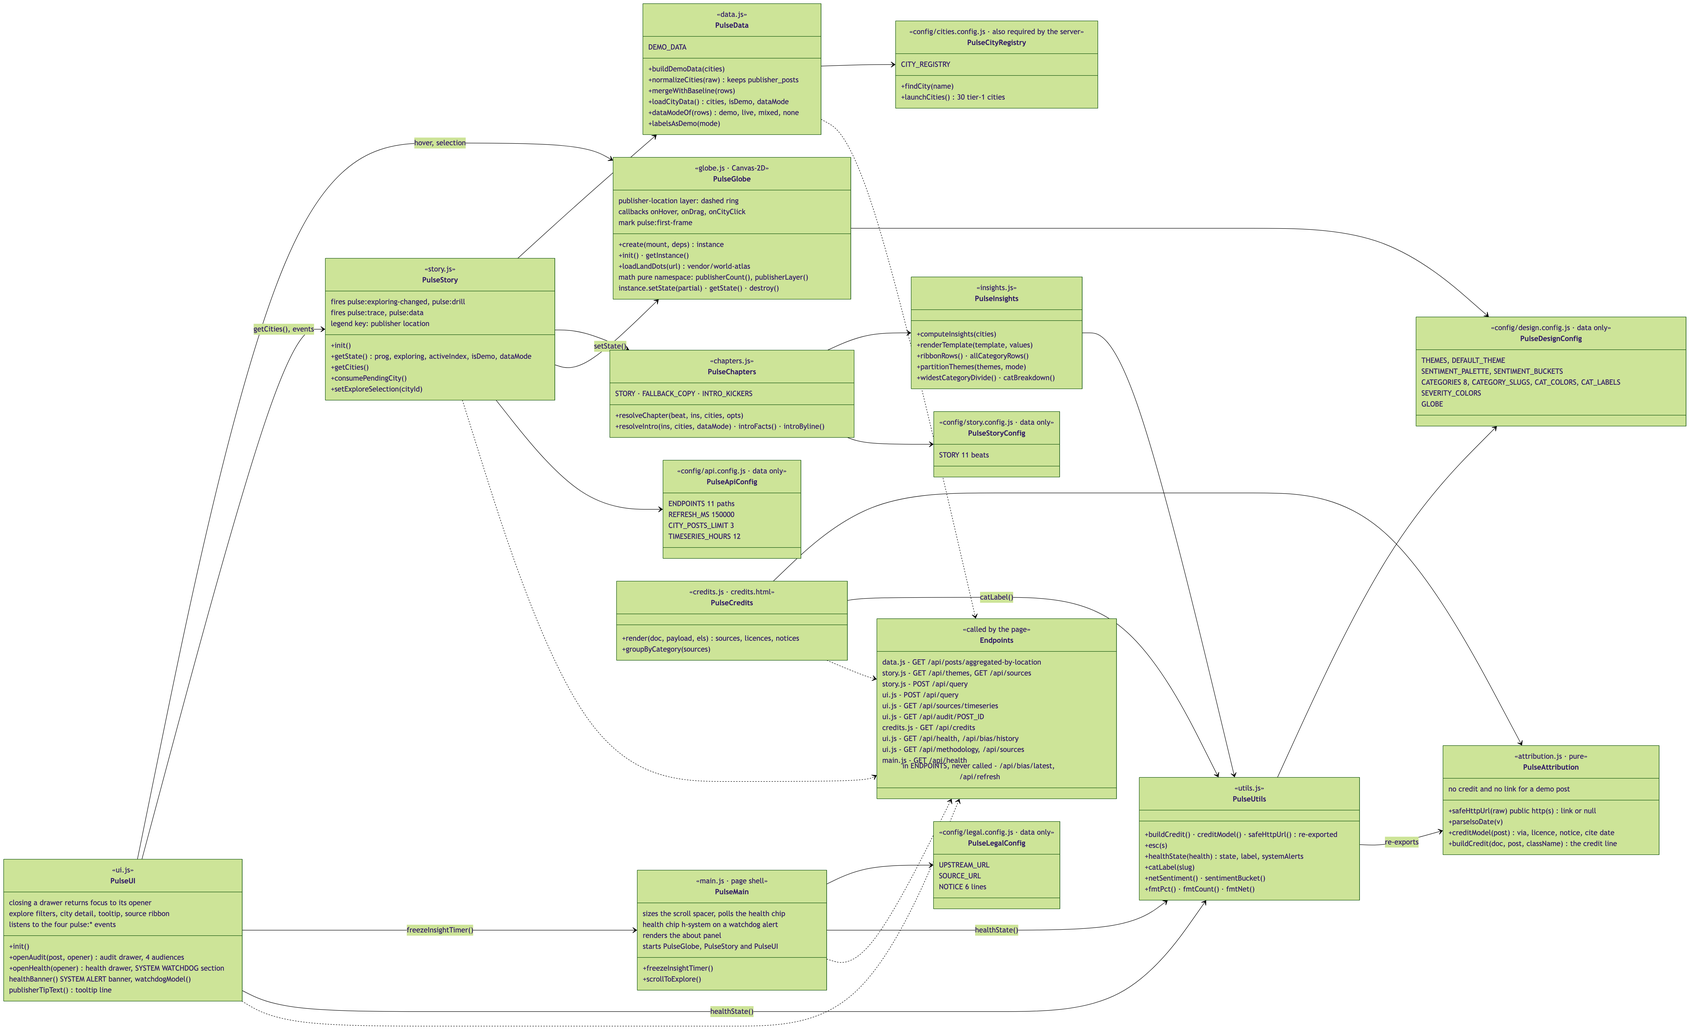
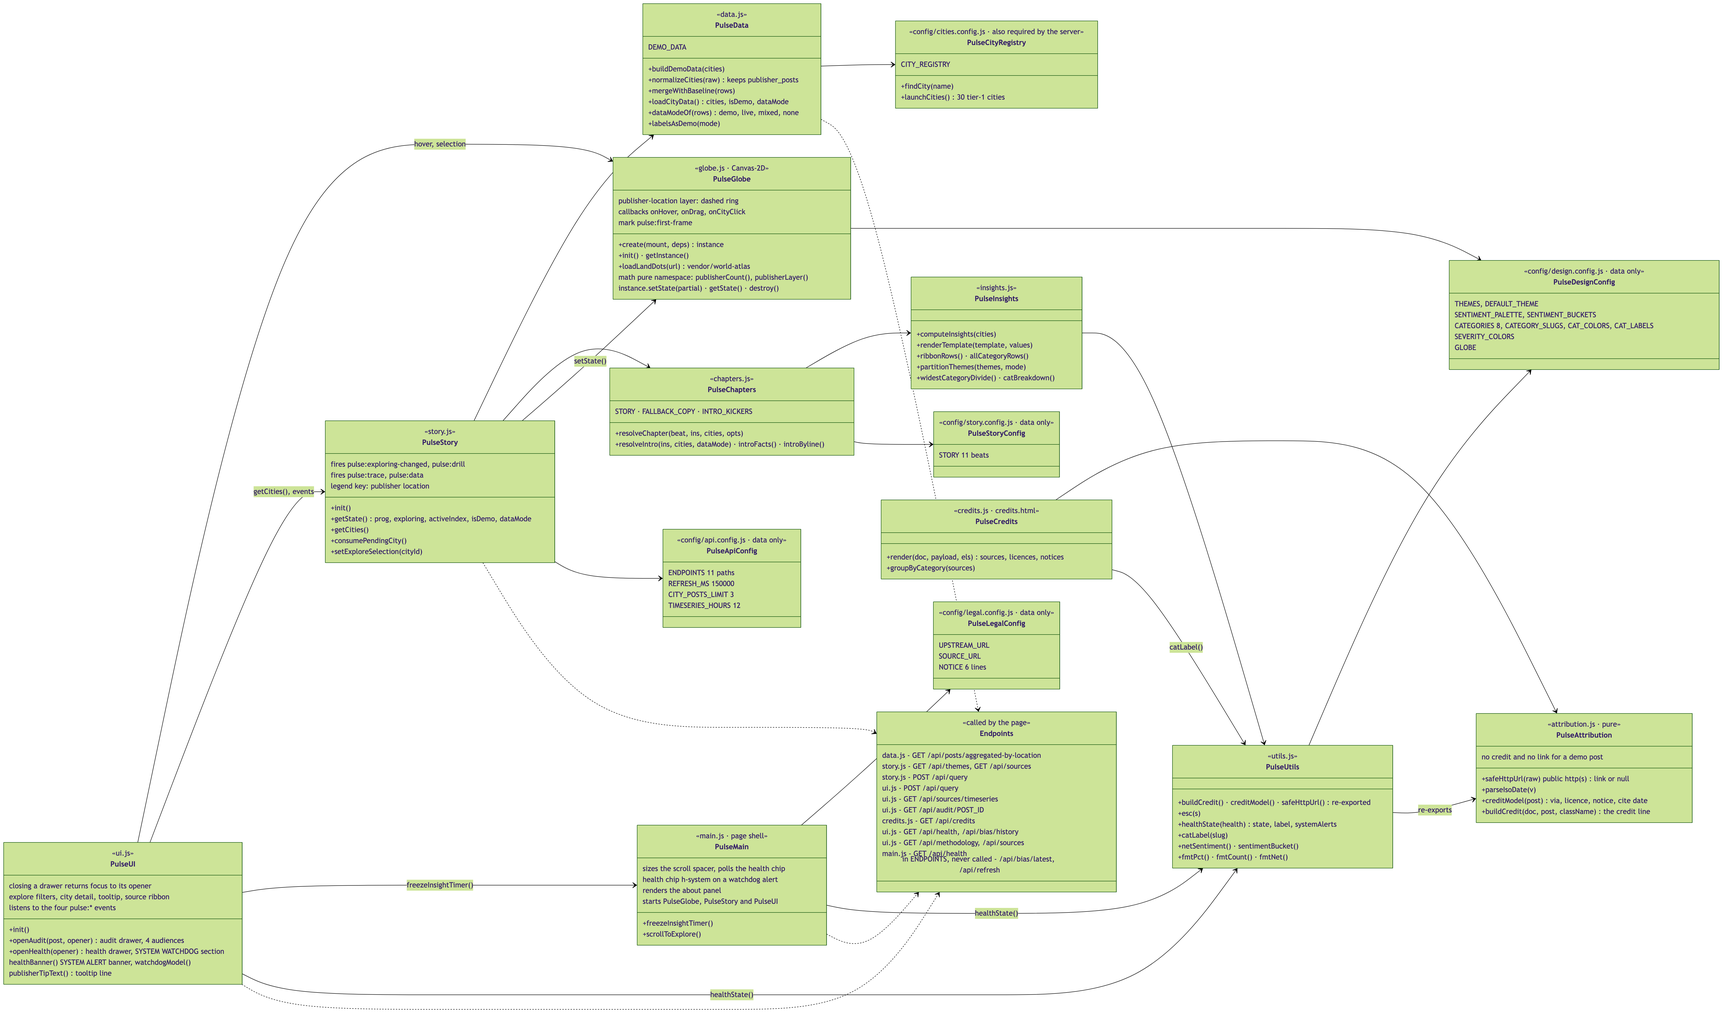
Fix the merge review findings: About panel under the wrapped header, drawer and observer edge cases, terms link validation, three static source links documented, stale doc statements

diff --git a/tests/e2e/attribution.spec.ts b/tests/e2e/attribution.spec.ts
@@ -175,13 +175,26 @@ test.describe('phone width (375px)', () => {
     test('header chips all fit; the health drawer is still reachable', async ({ page }) => {
         const errors = consoleErrors(page);
         await gotoAndWaitForData(page);
-        for (const sel of ['#credits-link', '#health-chip', '#insight-chip']) {
+        for (const sel of ['#credits-link', '#health-chip', '#insight-chip', '#about-chip']) {
             const box = await page.locator(sel).boundingBox();
             expect(box, sel + ' is rendered').not.toBeNull();
             expect(box!.x, sel + ' starts on screen').toBeGreaterThanOrEqual(0);
             expect(box!.x + box!.width, sel + ' ends on screen').toBeLessThanOrEqual(375);
         }
         await evidence(page, '23-attribution-mobile-header');
+        // the About panel opens BELOW the wrapped header: it must not cover
+        // its own chip or the health chip (a pointer user could not close it)
+        await page.locator('#about-chip').click();
+        await expect(page.locator('#about-panel')).toBeVisible();
+        const panel = await page.locator('#about-panel').boundingBox();
+        for (const sel of ['#about-chip', '#health-chip', '#credits-link']) {
+            const b = await page.locator(sel).boundingBox();
+            expect(panel!.y, sel + ' stays above the About panel').toBeGreaterThanOrEqual(b!.y + b!.height);
+        }
+        expect(panel!.x).toBeGreaterThanOrEqual(0);
+        expect(panel!.x + panel!.width).toBeLessThanOrEqual(375);
+        await page.locator('#about-chip').click();
+        await expect(page.locator('#about-panel')).toBeHidden();
         await page.locator('#health-chip').click();
         await expect(page.locator('#health-drawer')).toHaveClass(/open/);
         await page.locator('#health-drawer .drawer-x').click();

diff --git a/public/js/main.js b/public/js/main.js
@@ -228,8 +228,12 @@
             setOpen(false);
             if (returnFocus) chip.focus();
         };
+        // A drawer (z-index 50) covers the panel (30): opening the panel
+        // behind an open drawer would set aria-expanded on something nobody
+        // can see, so the chip does nothing while a drawer is open.
+        const drawerOpen = () => !!document.querySelector('#audit-drawer.open, #health-drawer.open');
         chip.addEventListener('click', () => {
-            if (panel.hidden) setOpen(true);
+            if (panel.hidden) { if (!drawerOpen()) setOpen(true); }
             else close();
         });
         document.addEventListener('keydown', (e) => {
@@ -257,13 +261,17 @@
             }
         };
         if (typeof MutationObserver !== 'undefined') {
+            // Only a drawer GAINING `open` folds the panel: another class
+            // change on an already-open drawer must not close a panel the
+            // user has just opened (attributeOldValue gives the old classes).
             const observer = new MutationObserver((records) => {
-                const opened = records.find((r) => r.target.classList.contains('open'));
+                const opened = records.find((r) => r.target.classList.contains('open')
+                    && !String(r.oldValue || '').split(/\s+/).includes('open'));
                 if (opened) foldAway(opened.target);
             });
             ['audit-drawer', 'health-drawer'].forEach((id) => {
                 const d = document.getElementById(id);
-                if (d) observer.observe(d, { attributes: true, attributeFilter: ['class'] });
+                if (d) observer.observe(d, { attributes: true, attributeFilter: ['class'], attributeOldValue: true });
             });
         }
     }

diff --git a/public/js/ui.js b/public/js/ui.js
@@ -737,8 +737,9 @@
                     status: r.status,
                     statusLabel: sourceStatusLabel(r),
                     online: r.online === true,
-                    termsUrl: r.status !== 'collecting' && typeof r.terms_url === 'string'
-                        && /^https:\/\//.test(r.terms_url) ? r.terms_url : null,
+                    // K1 review: the shared link validator (no credentials, no
+                    // private or IP hosts, no control characters), https only
+                    termsUrl: r.status !== 'collecting' ? httpsOnly(utils.safeHttpUrl(r.terms_url)) : null,
                     reason: r.status_reason || '',
                 })),
         })).filter((g) => g.sources.length > 0);
@@ -1222,6 +1223,11 @@
         if (className) node.className = className;
         if (text !== undefined && text !== null) node.textContent = text;
         return node;
+    }
+
+    // httpsOnly: the URL when it is https, else null (a safeHttpUrl result or null).
+    function httpsOnly(url) {
+        return typeof url === 'string' && url.startsWith('https://') ? url : null;
     }
 
     // appendCredit (K1): the credit line + link back under an excerpt;

diff --git a/tests/unit/pure/legalNotice.test.js b/tests/unit/pure/legalNotice.test.js
@@ -110,12 +110,20 @@ describe('index.html — mount points, script order, no-JS copy', () => {
     });
 });
 
+describe('index.html <noscript> parity (K1 review)', () => {
+    test('the no-JS copy carries every notice text', () => {
+        const html = read('public/index.html');
+        const noscript = html.slice(html.indexOf('<noscript>'), html.indexOf('</noscript>'));
+        for (const n of legal.NOTICE) expect(noscript).toContain(n.text);
+    });
+});
+
 describe('credits.html — the same notices as static markup (K1)', () => {
     // The credits page is a second page of the UI, so it carries the
     // Appropriate Legal Notices too; it is static (no config load) so it shows
     // without JavaScript. Kept equal to the config like the About panel.
     const html = read('public/credits.html');
-    const foot = html.slice(html.indexOf('<footer class="credits-legal"'), html.indexOf('</footer>'));
+    const foot = html.slice(html.indexOf('<section class="credits-legal"'), html.lastIndexOf('</section>'));
 
     test('repeats every notice line and link, once each', () => {
         for (const n of legal.NOTICE) {

diff --git a/tests/unit/pure/ui.test.js b/tests/unit/pure/ui.test.js
@@ -650,6 +650,12 @@ describe('healthBanner / sourcesStat / methodologyModel', () => {
         expect(groups[1].sources.map(s => s.name)).toEqual(['Stack Overflow', 'Hacker News']);
         expect(groups[0].sources[0]).toMatchObject({ statusLabel: 'blocked: no compliant access', termsUrl: 'https://weixin.qq.com/agreement' });
         expect(groups[0].sources[1].termsUrl).toBeNull();      // non-https never linked
+        // K1 review: the shared validator also refuses credentials and private hosts
+        const odd = P.sourceListModel([
+            { registry: true, category: 'social', rank: 1, display_name: 'A', status: 'blocked', terms_url: 'https://u:p@example.com/t' },
+            { registry: true, category: 'social', rank: 2, display_name: 'B', status: 'blocked', terms_url: 'https://localhost/t' },
+        ]);
+        expect(odd[0].sources.map(s => s.termsUrl)).toEqual([null, null]);
         expect(groups[1].sources[1].termsUrl).toBeNull();      // collecting: no citation needed
     });
     test('methodologyModel: latest row per component, model@version keys', () => {

diff --git a/public/credits.html b/public/credits.html
@@ -30,7 +30,7 @@
        legalNotice.test.js keeps this copy equal to it). They are about Pulse of
        AI, not about the third-party sources credited above. Static markup, so
        they show without JavaScript. -->
-  <footer class="credits-legal" aria-labelledby="credits-legal-h">
+  <section class="credits-legal" aria-labelledby="credits-legal-h">
     <h2 id="credits-legal-h" class="credits-h">About this software</h2>
     <ul class="credits-legal-list mono">
       <li data-notice="copyright">Copyright © 2026 Jennifer McKinney</li>
@@ -40,7 +40,7 @@
       <li data-notice="source"><a href="https://github.com/jennifer-mckinney/pulse-of-ai" rel="noopener noreferrer">Source code</a></li>
       <li data-notice="warranty">No warranty: provided "as is", without warranty of any kind (AGPL sections 15 and 16).</li>
     </ul>
-  </footer>
+  </section>
 </main>
 <script defer src="js/config/design.config.js"></script>
 <script defer src="js/attribution.js"></script>

diff --git a/public/js/config/legal.config.js b/public/js/config/legal.config.js
@@ -5,8 +5,9 @@
 // the upstream repository, must be preserved in the Appropriate Legal
 // Notices of any covered work, including a user interface reached over a
 // network. main.js renders NOTICE into the header "about" panel
-// (#about-panel) with createElement/textContent only; index.html repeats it
-// as static text inside <noscript>.
+// (#about-panel) with createElement/textContent only; the same lines are
+// repeated as static markup in index.html (the <noscript> block and the
+// About-panel fallback) and in the footer of credits.html.
 //
 // Deployers of a MODIFIED version (AGPL section 13): point SOURCE_URL at
 // the complete corresponding source of the version you run (your fork). The

diff --git a/tests/unit/pure/attributionUi.test.js b/tests/unit/pure/attributionUi.test.js
@@ -163,6 +163,13 @@ describe('creditModel', () => {
 });
 
 describe('buildCredit', () => {
+    test('an http (not encrypted) original says so in its accessible name', () => {
+        const doc = makeDoc();
+        const [a] = links(attribution.buildCredit(doc, live({ source_url: 'http://www.npr.org/story' })));
+        expect(a.href).toBe('http://www.npr.org/story');
+        expect(a.getAttribute('aria-label')).toBe('Read the original at npr.org (not encrypted) (opens in a new tab)');
+    });
+
     test('credit line: "via NPR" and a safe external link showing the host', () => {
         const doc = makeDoc();
         const line = attribution.buildCredit(doc, live());

diff --git a/public/js/attribution.js b/public/js/attribution.js
@@ -201,7 +201,8 @@
         if (m.text) parts.push(node(doc, 'span', 'credit-via', 'via ' + m.text + (m.date ? ' (' + m.date + ')' : '')));
         if (m.url) {
             parts.push(externalLink(doc, 'credit-link', m.host + ' ↗', m.url,
-                'Read the original at ' + m.host + ' (opens in a new tab)'));
+                'Read the original at ' + m.host
+                + (m.url.startsWith('http:') ? ' (not encrypted)' : '') + ' (opens in a new tab)'));
         }
         if (m.license) {
             parts.push(m.licenseUrl

diff --git a/public/styles/main.css b/public/styles/main.css
@@ -537,6 +537,9 @@ body {
   .hdr-right { gap: 6px; flex-wrap: wrap; }
   .hdr-chip { padding: 5px 9px; gap: 6px; }
   .exp-filters { margin-top: 116px; }
+  /* the wrapped header is about 100px tall: the About panel opens below it
+     (not over its own chip) and spans the viewport width less the gutters */
+  .about-panel { top: 112px; left: 14px; right: 14px; max-width: none; max-height: calc(100% - 128px); }
 }
 
 /* ── Reduced motion: disable decorative CSS loops (cue bob, header

diff --git a/docs/diagrams/model/frontend-modules.html b/docs/diagrams/model/frontend-modules.html
@@ -192,7 +192,6 @@ classDiagram
   PulseStory ..&gt; Endpoints
   PulseUI ..&gt; Endpoints
   PulseMain ..&gt; Endpoints
-  PulseCredits ..&gt; Endpoints
 </pre>
 <script>mermaid.initialize({ startOnLoad: true, theme: 'forest', securityLevel: 'strict', maxTextSize: 200000 });</script>
 </body>

diff --git a/docs/TECHNICAL_SPEC.md b/docs/TECHNICAL_SPEC.md
@@ -57,7 +57,7 @@ PRs #24–#28 and #31–#34 merged after v1.2.0 (`master` @ `7291490`; #29 and #
 - **Audit round 5 corrections, §12–§16 (2026-09-30; no code change behind them):** §12 the model's 22.7M parameters (Hugging Face metadata), the `populate` role's `GET /health` readiness check, the Infinity CLI (`infinity_emb v2 --model-id`); §13 a comma in the PR list; §14 the refresh-interval row (collecting sources only, D4 exceptions), correlation latency **PLANNED**, the per-queue backlog limit, the accuracy targets marked not yet measured; §15 MySQL's native `JSON` type, a RoBERTa upgrade needs a registry entry, migration and inference code; §16 X needs `X_BEARER_TOKEN` and `GATE_APPROVED_BY`, the cold-start rule is ≥ 0.85 confidence only.
 - **Reconciliation with PRs #41 and #43 (2026-10-01; #42 and #44 are still open):** header, §11 and §21 the master SHA 2b5e6c3 and the status line names PR #43; §13 adds PRs #41 and #43 to its PR list; §7 `/api/bias/history` pass summaries carry `latest_insufficient` and word an insufficient-sample latest value as not compared with τ; §11 the health drawer shows such a summary as N/A; §12 the `embed` worker reads the service's `GET /health` before it stamps a vector (registered model, revision and library, else NULL; an unreadable `/health` fails the job), and `python/requirements.txt` pins the registered library stack, torch per platform included; §17 a `SOURCE_<SLUG>_RESET` date in the future is ignored, its accepted forms, and the `last_refused_at` carry for a refusal recorded before migration 062. No methodology version or migration changes.
 - **Reconciliation with PR #44 (2026-10-01; #42 is still open):** header, §11 and §21 the master SHA a17020f and the status line names PR #44; §13 adds PR #44 to its PR list; §3, §4, §6, §16, §17 the HTTP client waits out a `Retry-After` of at most 10 s in a run and holds the host up to 24 h for a longer one (or 5 min for a 429 without one), persisted in `source_collection_state.http_cache`; TLDR polls every 180 s (HTTP 429 at 150 s); §6, §8, §19 the retention-log action `source_reattributed` of the manual `scripts/correct-legacy-seed-attribution.js --apply`. No methodology version or migration changes.
-- **K1 attribution, PR #87 (2026-10-01; describes the K1 branch, which is on `master` only once PR #87 merges):** §4 and §7 thirteen endpoints, the new `GET /api/credits`, the `credit`, `source_url`, `published_at` and `data_origin` fields of `/api/query`, `/api/sentiment/latest` and `/api/audit/:post_id`, and the stricter `provenance.permalink`; §11 the credit line, the header "credits" chip and the credits page; §17 the registry's credit fields; §21 how the credits page and the About panel divide the notices. No schema change, no migration, no methodology version change.
+- **K1 attribution, PR #87 (2026-10-01):** §4 and §7 thirteen endpoints, the new `GET /api/credits`, the `credit`, `source_url`, `published_at` and `data_origin` fields of `/api/query`, `/api/sentiment/latest` and `/api/audit/:post_id`, and the stricter `provenance.permalink`; §11 the credit line, the header "credits" chip and the credits page; §17 the registry's credit fields; §21 how the credits page and the About panel divide the notices. No schema change, no migration, no methodology version change.
 
 **v1.1.0 Amendments (historical record; v1.2.0 supersedes the source count and categories, the pseudonym format and the retention schedule where the sections below say so):**
 - Scope: Global (not US-only)
@@ -276,11 +276,12 @@ The diagram set in `docs/diagrams/` (entry point `docs/diagrams/architecture.*`)
 └───────────────────────┬─────────────────────────────────────────┘
                         ▼
 ┌─────────────────────────────────────────────────────────────────┐
-│  BROWSER (public/) — no build step, everything self-hosted       │
-│  UMD modules: config/*, utils, data, insights, chapters,        │
+│  BROWSER (public/) — no build step, everything self-hosted      │
+│  UMD modules: config/*, attribution, utils, data, insights,     │
+│  chapters,                                                      │
 │  globe (Canvas-2D dot globe), story (11 beats), ui, main        │
 │  Demo data always labelled; legal notices in the header panel;  │
-│  a source credit and link back under every excerpt (credits.html)│
+│  a credit and link back under every excerpt (credits.html)      │
 └─────────────────────────────────────────────────────────────────┘
 ```
 
@@ -1505,12 +1506,12 @@ Each beat sets a camera intent, a colour mode (`sentiment` | `category` | `warm`
 Demo numbers are never presented as live. `data.js` derives a data mode from the snapshot's `demo_posts` counts (`live` | `demo` | `mixed` | `none`), or `fallback` when the API is unreachable or holds no posts, and the bundled deterministic demo set is rendered. Every mode that includes demo posts (`demo`, `mixed`, `fallback`) shows the "Demo data" markers, and the overview kicker states the mode. In `fallback` mode, posts and receipts are synthesised locally (fictional, nothing stored) and their ids are never sent to `/api/audit`; a demo-feed post stored in the database (`demo` / `mixed` mode) is fetched from `/api/audit` like a live post and labelled DEMO DATA from its `data_origin`. Server-side demo posts come only from demo feeds (`data_sources.source_type = 'demo'`, text prefixed `[Demo]`) and are reported with `data_origin: "demo"`.
 
 ### Source credits and links back (K1)
-Every excerpt names its source and links to the original, so a reader can check it and the source is credited. `js/attribution.js` builds one credit line from a post row and the city list, the chapter 3 and 4 mini-post, the audit drawer (its error state too) and the receipt all use it: "via NPR · npr.org ↗", then where they apply the licence link (Wikipedia, Stack Exchange, Our World in Data), "excerpt shortened and redacted" (a CC BY licence needs changes indicated), the publication date (Pew), and the notice a source's terms require (arXiv, PubMed). The link text is the destination's host; the element is built with `createElement` and `textContent` only, `href` is set only after the browser re-validates the address with the same function the server uses, and the link opens in a new tab with `rel="noopener noreferrer"`. Without a validated link the credit shows alone. A demo post, a stored demo-feed post and a local fallback post show "fictional demo post · no real source" instead, with no credit and no link, consistent with the "Demo data" markers below; a row labelled with a slug the registry does not know shows no credit. The header "credits" chip opens `credits.html`, which lists each source that has stored posts with its credit, licence, terms link and notice, and the three site notices of `GET /api/credits`.
+Every excerpt names its source and links to the original, so a reader can check it and the source is credited. `js/attribution.js` builds one credit line from a post row and the city list, the chapter 3 and 4 mini-post, the audit drawer (its error state too) and the receipt all use it: "via NPR · npr.org ↗", then where they apply the licence link where the registry has a `licenseUrl` (Wikipedia, Stack Overflow, Our World in Data, arXiv), "excerpt shortened and redacted" (a CC BY licence needs changes indicated), the publication date (Pew), and the notice a source's terms require (arXiv, PubMed). The link text is the destination's host; the element is built with `createElement` and `textContent` only, `href` is set only after the browser re-validates the address with the same function the server uses, and the link opens in a new tab with `rel="noopener noreferrer"`. Without a validated link the credit shows alone. A demo post, a stored demo-feed post and a local fallback post show "fictional demo post · no real source" instead, with no credit and no link, consistent with the "Demo data" markers below; a row labelled with a slug the registry does not know shows no credit. The header "credits" chip opens `credits.html`, which lists each source that has stored posts with its credit, licence, terms link and notice, and the three site notices of `GET /api/credits`.
 
 The credits are about the third-party content shown. They are separate from the Appropriate Legal Notices (below and §21), which are about the software and sit in the About panel; `credits.html` also carries those six lines at its foot as static markup, because it is a second page of the UI.
 
 ### Legal Notices
-The header "about" chip opens a panel with the Appropriate Legal Notices of §21; `index.html` repeats them in `<noscript>`. This UI is added by the `docs/diagrams-and-readme` branch together with the licence; it is not on `master` @ `a17020f`.
+The header "about" chip opens a panel with the Appropriate Legal Notices of §21; `index.html` repeats them in `<noscript>`. The UI and the licence arrived with PR #40.
 
 ### Page Load Priority (Performance Budget: <3s)
 
@@ -2354,13 +2355,13 @@ Before shipping this feature:
 
 ## 21. Licence and Legal Notices
 
-**Scope.** The licence and the legal-notices UI are added by the `docs/diagrams-and-readme` branch; `master` @ `a17020f` still declares `"license": "MIT"` in `package.json` and has no `LICENSE` file or notice UI. The licensing decision and its wording belong to `LICENSE` and `ADDITIONAL-TERMS.md`; this section states how the code carries them and does not restate the terms differently.
+**Scope.** The licence and the legal-notices UI arrived with PR #40 (`docs/diagrams-and-readme`); before it, `master` declared `"license": "MIT"` in `package.json` and had no `LICENSE` file or notice UI. The licensing decision and its wording belong to `LICENSE` and `ADDITIONAL-TERMS.md`; this section states how the code carries them and does not restate the terms differently.
 
 ### Licence
 - `LICENSE` is the complete, unmodified GNU Affero General Public License v3.
 - The project is licensed **AGPL-3.0-or-later** (`package.json` and the `package-lock.json` root entry: `"license": "AGPL-3.0-or-later"`).
 - `ADDITIONAL-TERMS.md` adds exactly one term, under AGPL section 7(b): the author attribution 'Built on Pulse of AI by Jennifer McKinney', with a link to https://github.com/jennifer-mckinney/pulse-of-ai, must be preserved in the Appropriate Legal Notices of any covered work or modified version, including a user interface reached over a network. It places no other restriction.
-- AGPL section 13: whoever runs a modified version for users over a network must offer them its complete corresponding source; `SOURCE_URL` in `legal.config.js` (and BOTH static "Source code" links in `public/index.html`: the `<noscript>` block and the About-panel fallback markup) must then point at that source. The attribution line stays as it is.
+- AGPL section 13: whoever runs a modified version for users over a network must offer them its complete corresponding source; `SOURCE_URL` in `legal.config.js` (and the three static "Source code" links: the `<noscript>` block and the About-panel fallback markup in `public/index.html`, and the footer of `public/credits.html`) must then point at that source. The attribution line stays as it is.
 - Third-party components keep their own licences; vendored frontend assets are listed in `public/vendor/README.md`.
 
 ### Legal-notices UI
